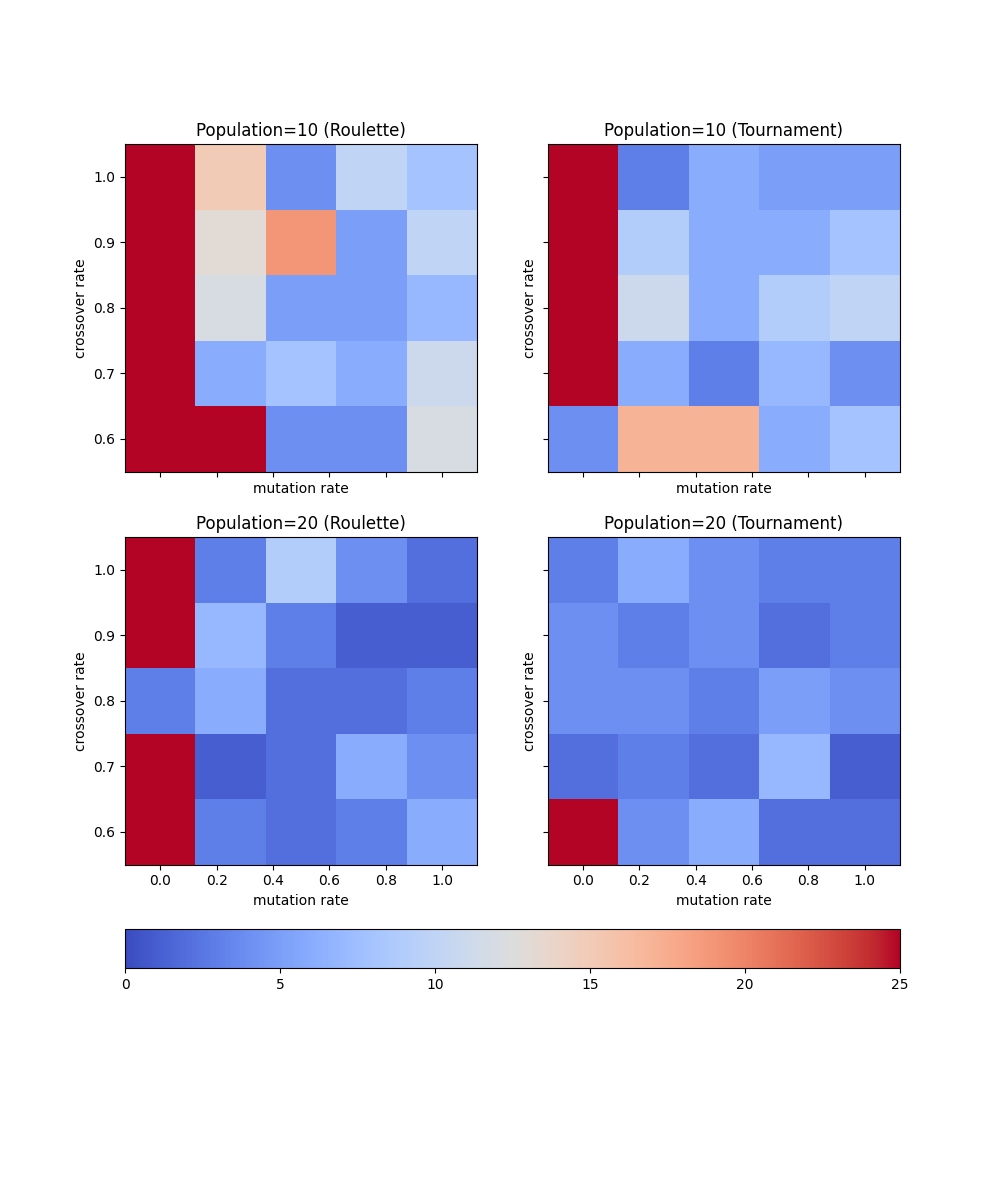
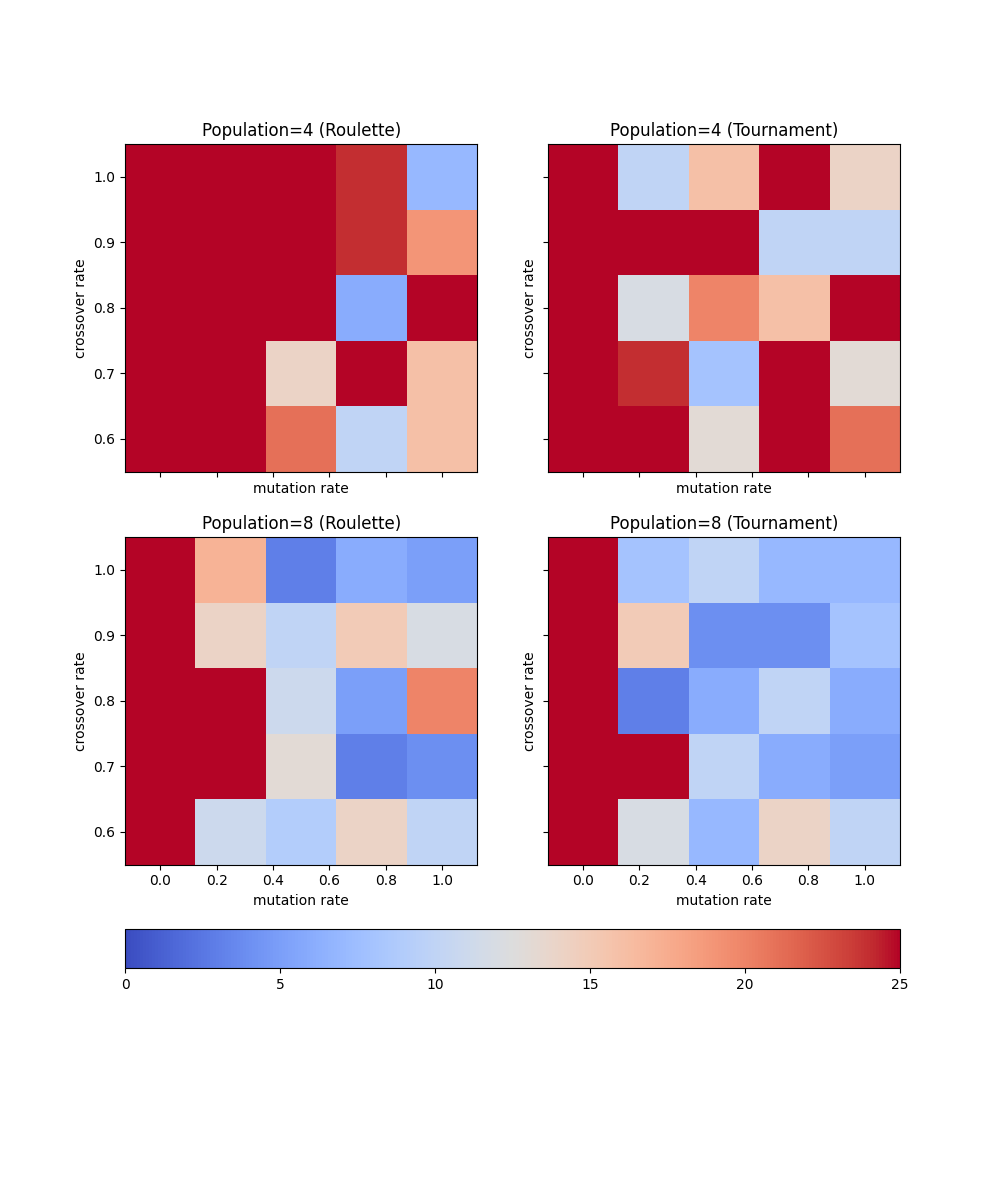
Ajustado tamanho da população e ultimo grafico.

diff --git a/sim_and_plots.py b/sim_and_plots.py
@@ -5,28 +5,28 @@ from statistics import mean
 
 r_cross_opts = (0.6, 0.7, 0.8, 0.9, 1)
 r_mut_opts = (0, 0.25, 0.5, 0.75, 1)
-results_pop_10_roulette = list()
-results_pop_10_tournament = list()
-results_pop_20_roulette = list()
-results_pop_20_tournament = list()
+results_pop_4_roulette = list()
+results_pop_4_tournament = list()
+results_pop_8_roulette = list()
+results_pop_8_tournament = list()
 
 for r_cross in r_cross_opts:
-  row_results_pop_10_roulette = list()
-  row_results_pop_10_tournament = list()
-  row_results_pop_20_roulette = list()
-  row_results_pop_20_tournament = list()
+  row_results_pop_4_roulette = list()
+  row_results_pop_4_tournament = list()
+  row_results_pop_8_roulette = list()
+  row_results_pop_8_tournament = list()
 
   for r_mut in r_mut_opts:
     print((r_cross, r_mut))
-    row_results_pop_10_roulette.append(main('roulette', 10, r_cross, r_mut))
-    row_results_pop_10_tournament.append(main('tournament', 10, r_cross, r_mut))
-    row_results_pop_20_roulette.append(main('roulette', 20, r_cross, r_mut))
-    row_results_pop_20_tournament.append(main('tournament', 20, r_cross, r_mut))
+    row_results_pop_4_roulette.append(main('roulette', 4, r_cross, r_mut))
+    row_results_pop_4_tournament.append(main('tournament', 4, r_cross, r_mut))
+    row_results_pop_8_roulette.append(main('roulette', 8, r_cross, r_mut))
+    row_results_pop_8_tournament.append(main('tournament', 8, r_cross, r_mut))
 
-  results_pop_10_roulette.append(row_results_pop_10_roulette)
-  results_pop_10_tournament.append(row_results_pop_10_tournament)
-  results_pop_20_roulette.append(row_results_pop_20_roulette)
-  results_pop_20_tournament.append(row_results_pop_20_tournament)
+  results_pop_4_roulette.append(row_results_pop_4_roulette)
+  results_pop_4_tournament.append(row_results_pop_4_tournament)
+  results_pop_8_roulette.append(row_results_pop_8_roulette)
+  results_pop_8_tournament.append(row_results_pop_8_tournament)
 
 X, Y = np.meshgrid(r_mut_opts, r_cross_opts)
 
@@ -38,25 +38,25 @@ def plot_colormesh(name, func, vmax = 25):
   fig.set_figheight(12)
 
   meshopts = {'cmap': 'coolwarm', 'vmin': 0, 'vmax': vmax}
-  surf = ax[0][0].pcolormesh(X, Y, calc_z(results_pop_10_roulette), **meshopts)
+  surf = ax[0][0].pcolormesh(X, Y, calc_z(results_pop_4_roulette), **meshopts)
   ax[0][0].set_xlabel('mutation rate')
   ax[0][0].set_ylabel('crossover rate')
-  ax[0][0].set_title('Population=10 (Roulette)')
+  ax[0][0].set_title('Population=4 (Roulette)')
 
-  surf = ax[0][1].pcolormesh(X, Y, calc_z(results_pop_10_tournament), **meshopts)
+  surf = ax[0][1].pcolormesh(X, Y, calc_z(results_pop_4_tournament), **meshopts)
   ax[0][1].set_xlabel('mutation rate')
   ax[0][1].set_ylabel('crossover rate')
-  ax[0][1].set_title('Population=10 (Tournament)')
+  ax[0][1].set_title('Population=4 (Tournament)')
 
-  surf = ax[1][0].pcolormesh(X, Y, calc_z(results_pop_20_roulette), **meshopts)
+  surf = ax[1][0].pcolormesh(X, Y, calc_z(results_pop_8_roulette), **meshopts)
   ax[1][0].set_xlabel('mutation rate')
   ax[1][0].set_ylabel('crossover rate')
-  ax[1][0].set_title('Population=20 (Roulette)')
+  ax[1][0].set_title('Population=8 (Roulette)')
 
-  surf = ax[1][1].pcolormesh(X, Y, calc_z(results_pop_20_tournament), **meshopts)
+  surf = ax[1][1].pcolormesh(X, Y, calc_z(results_pop_8_tournament), **meshopts)
   ax[1][1].set_xlabel('mutation rate')
   ax[1][1].set_ylabel('crossover rate')
-  ax[1][1].set_title('Population=20 (Tournament)')
+  ax[1][1].set_title('Population=8 (Tournament)')
 
   fig.colorbar(surf, ax=ax, orientation='horizontal', pad=0.07)
   plt.savefig(f'fig/{name}.png')
@@ -71,8 +71,8 @@ quant_normal = 0
 quant_primeira = 0
 quant_nunca = 0
 
-for result in (results_pop_10_roulette, results_pop_10_tournament, results_pop_20_roulette, results_pop_20_tournament):
-  for row in results_pop_10_tournament:
+for result in (results_pop_4_roulette, results_pop_4_tournament, results_pop_8_roulette, results_pop_8_tournament):
+  for row in result:
     for col in row:
       for sim_result in col:
         scores_history = sim_result[2][0:25]
@@ -88,6 +88,6 @@ for result in (results_pop_10_roulette, results_pop_10_tournament, results_pop_2
         quant_normal += 1
 plt.xlabel('Number of generations')
 plt.ylabel('Delivered power')
+plt.xscale('log')
 plt.savefig('fig/generations.png')
-
 print(quant_normal, quant_primeira, quant_nunca)
